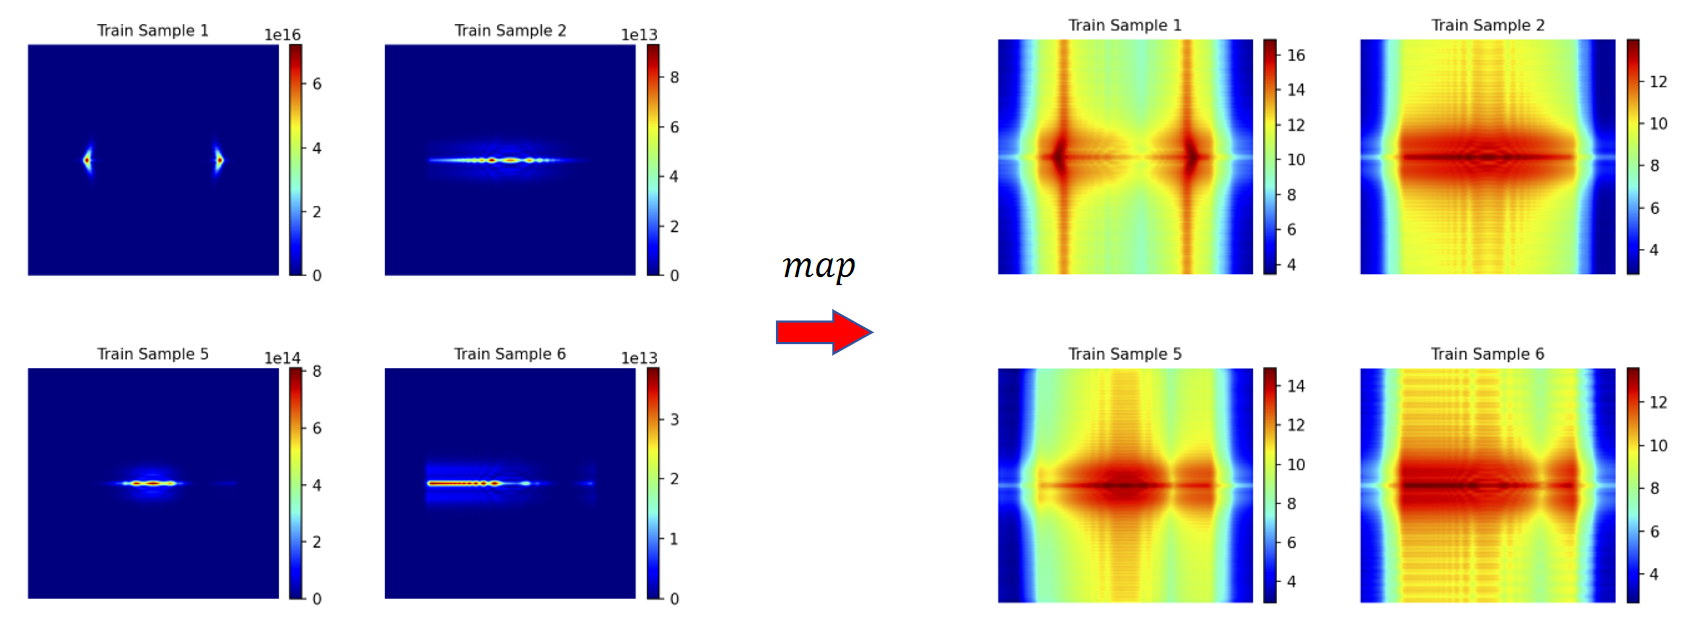
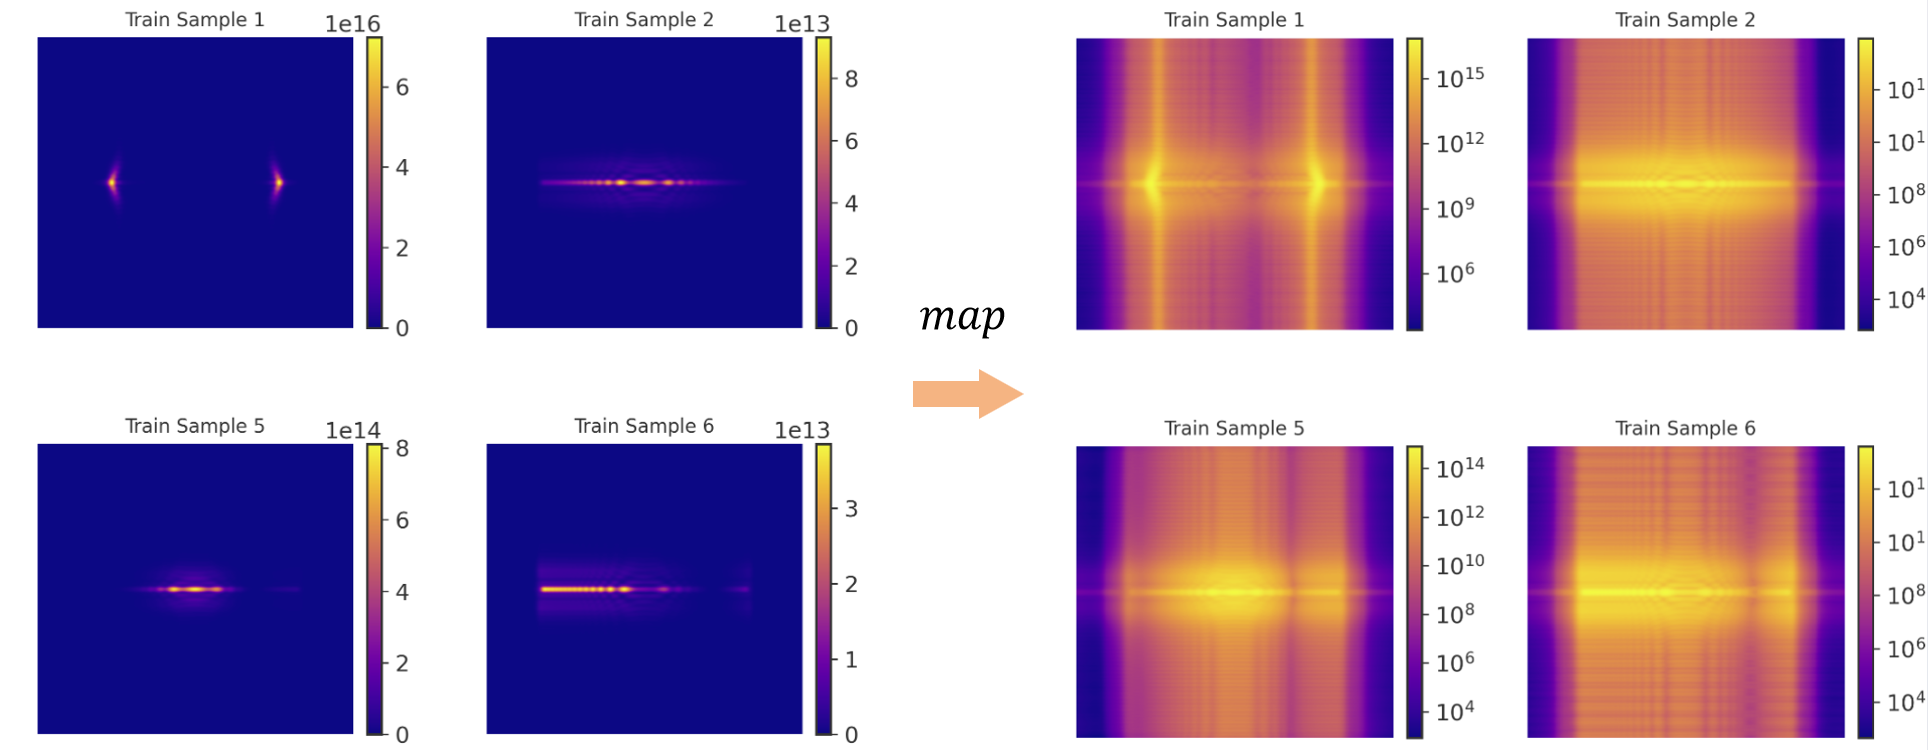
update some schematics

diff --git a/readme.md b/readme.md
@@ -45,17 +45,15 @@ To address the following bottleneck, we present **XRayLogSurrogate**, **the firs
 - **The Innovation:** We propose the **first log-manifold surrogate** modeling framework that represents intensity distributions in logarithmic space, converting highly nonlinear diffraction structures into low-rank learnable manifolds.Combined with **physics-informed constraints**, the model achieves high accuracy with minimal training samples and generalizes well across beamline configurations.
 - **The Result:** The proposed model achieves <1% relative error across the full dynamic range, faithfully reconstructing fine diffraction fringes. Single prediction takes only milliseconds, yielding a **$>10^4$ speedup** over SRW simulation and enabling real-time surrogate-based beamline optimization.
 
----
+### Main Contributions
+- **Physics-Informed & Log-Manifold-Learning-Based Surrogate Modeling Framework:** We propose the first diffraction spot prediction framework based on Physics-Informed and log-manifold learning, enabling efficient extraction of undulator radiation features with high coherence, high spatial frequencies, and large dynamic range.
+- **Efficient Prediction via Proper Orthogonal Decomposition:** The log-manifold representation maps highly nonlinear diffraction structures of undulator radiation onto a learnable low-rank manifold, enabling accurate modeling with limited data and robust generalization across beamline configurations.
+- **Enabling Real-Time Digital Twins and Online Optimization :** The proposed method provides an efficient and practical digital twin modeling approach for fourth-generation light source beamlines, enabling online parameter optimization, rapid parameter scanning, and virtual diagnostics.
 
-##  Key Performance Metrics
-
-| Metric | **Log-Manifold Model (Ours)** | Linear-Space Baseline |
-| :--- | :--- | :--- |
-| **Mean Error** | **< 1 %** | > 100 % |
-| **Simulation Time**  | **1.8 ms** | 2.1 ms |
-| **Speedup vs. SRW** | **> 10,000×** | — |
 
 ---
+
+
 
 ##  Methodology: Log-Manifold Learning
 
@@ -68,10 +66,20 @@ $$
 
 This logarithmic mapping dramatically linearizes the otherwise severely nonlinear diffraction fringes, yielding a **low-rank, highly learnable** manifold in log-space (see visualization below).
 
+
+
+<p align="center">
+  <img src="assets/log_manifold.png" width="800" alt="Log manifold">
+  <br>
+  <em><b>Figure 2:</b> Schematic of the low-dimensional manifold structure of synchrotron radiation
+diffraction patterns under log-manifold mapping</em>
+</p>
+
+
 <p align="center">
   <img src="assets/linear_and_log.png" width="800" alt="Linear vs Log Representation">
   <br>
-  <em><b>Figure 1:</b> Intensity focal spot in linear (left) and log₁₀ (right) scale. The logarithmic representation dramatically improves the learnability of fringes.</em>
+  <em><b>Figure 3:</b> Intensity focal spot in linear (left) and log₁₀ (right) scale. The logarithmic representation dramatically improves the learnability of fringes.</em>
 </p>
 
 ### 2. Log-Manifold POD
@@ -92,14 +100,10 @@ In the present case, **>99.99 % of the log-space energy is captured with only 58
 <p align="center">
   <img src="assets/pod_modes_log_linear.png"width = "820"/>
   <br>
-  <b>Figure 2:</b> POD modes of the log-manifold (left) and linear-manifold (right). The comparison clearly demonstrates that the log-manifold captures more pronounced non-linear characteristics.
+  <b>Figure 4:</b> POD modes of the log-manifold (left) and linear-manifold (right). The comparison clearly demonstrates that the log-manifold captures more pronounced non-linear characteristics.
 </p>
 
-<p align="center">
-  <img src="assets/eigen_value_convergence.png"width = "450"/>
-  <br>
-  <b>Figure 3:</b> Singular-value spectrum decay is ~3× faster in log-space. 
-</p>
+
 
 
 
@@ -120,29 +124,41 @@ The combination of these ingredients yields **sub-percent relative error even on
 <p align="center">
   <img src="assets/framework.png" width="920" alt="Physics-informed residual surrogate"/>
   <br>
-  <b>Figure 4:</b> End-to-end physics-informed residual surrogate architecture. 
+  <b>Figure 5:</b> End-to-end physics-informed residual surrogate architecture. 
 </p>
 
 ---
 
-## Validation & Reproducibility
-
+## Validation & Results
+<p align="center">
+  <img src="assets/SRW_beamline.png" width="800" alt="Beamline configuration schematic for wavefront propagation"/>
+  <br>
+  <b>Figure 6:</b> Beamline configuration schematic for wavefront propagation. 
+</p>
 All quantitative results reported in this work are obtained on a **fully open benchmark dataset** consisting of 200 high-fidelity SRW simulations of a realistic fourth-generation storage-ring beamline, with the undulator deflection parameter $K$ (or vertical magnetic field $B_y$) as the sole varying parameter.
 
 - The log-manifold surrogate achieves **0.42 % mean relative $L^2$ error** over the entire focal plane and faithfully recovers diffraction fringes down to the $10^{-10}$ intensity level.
 - In stark contrast, an identical architecture trained in linear intensity space completely fails to reproduce high-frequency structures .
 
 <p align="center">
-  <img src="assets/log_predict_and_error.png" width="750"/>
+  <img src="assets/log_predict_and_error.png" width="950"/>
   <br>
-  <b>Figure 5:</b> Typical focal-spot reconstruction using the log-manifold surrogate (top) compared with ground-truth SRW simulation (middle) and point-wise relative error (bottom). 
+  <b>Figure 7:</b> Spot reconstruction by the logarithmic-manifold surrogate model (middle), compared
+with SRW results (top) and relative error distributions (bottom), achieving less than 1% relative error
+on both training and test sets. 
 </p>
 
-<p align="center">
-  <img src="assets/reconstruction_prediction_varying_error.png" width="750"/>
-  <br>
-  <b>Figure 6:</b> Mean relative error versus varying parameter on 200 unseen test configurations .
-</p>
+
+
+##  Key Performance Metrics
+
+| Metric | **Log-Manifold Model** | Linear-Space Baseline | SRW Baseline
+| :--- | :--- | :--- | :---
+| **Mean Error** | **< 1 %** | > 100 % | —
+| **Simulation Time**  | **12 ms** | 10 ms | > 3h
+| **Speedup vs. SRW** | **> 10,000×** | — | —
+
+---
 
 ## Full reproducibility 
 
